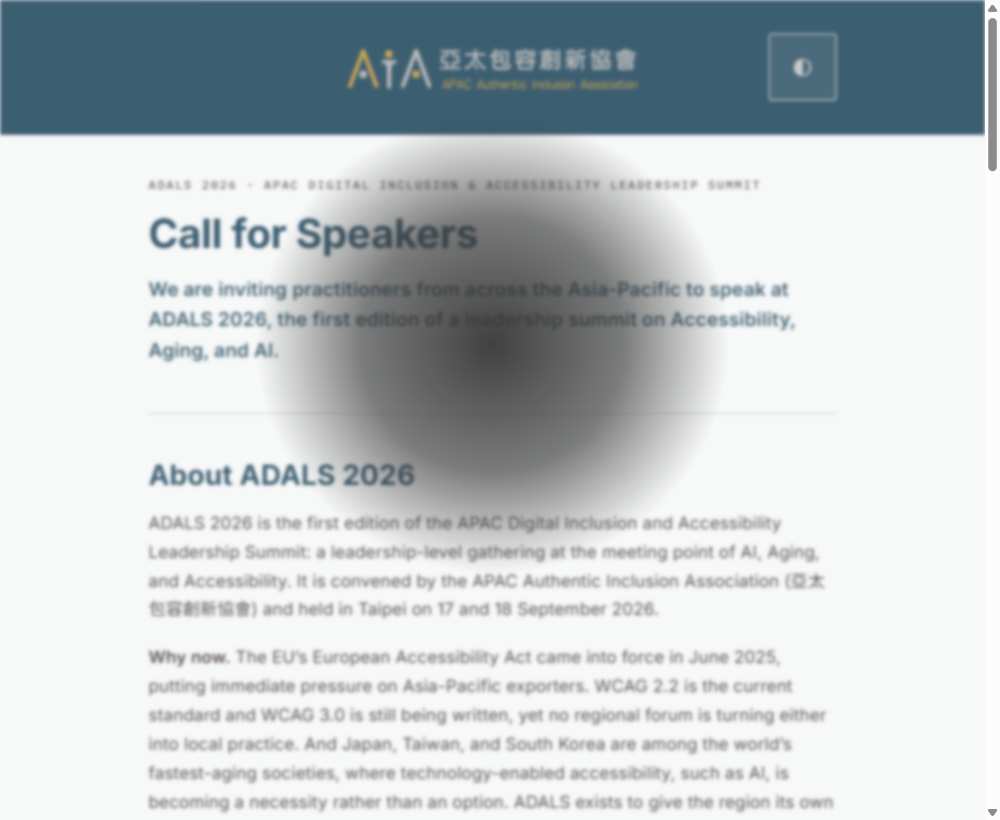
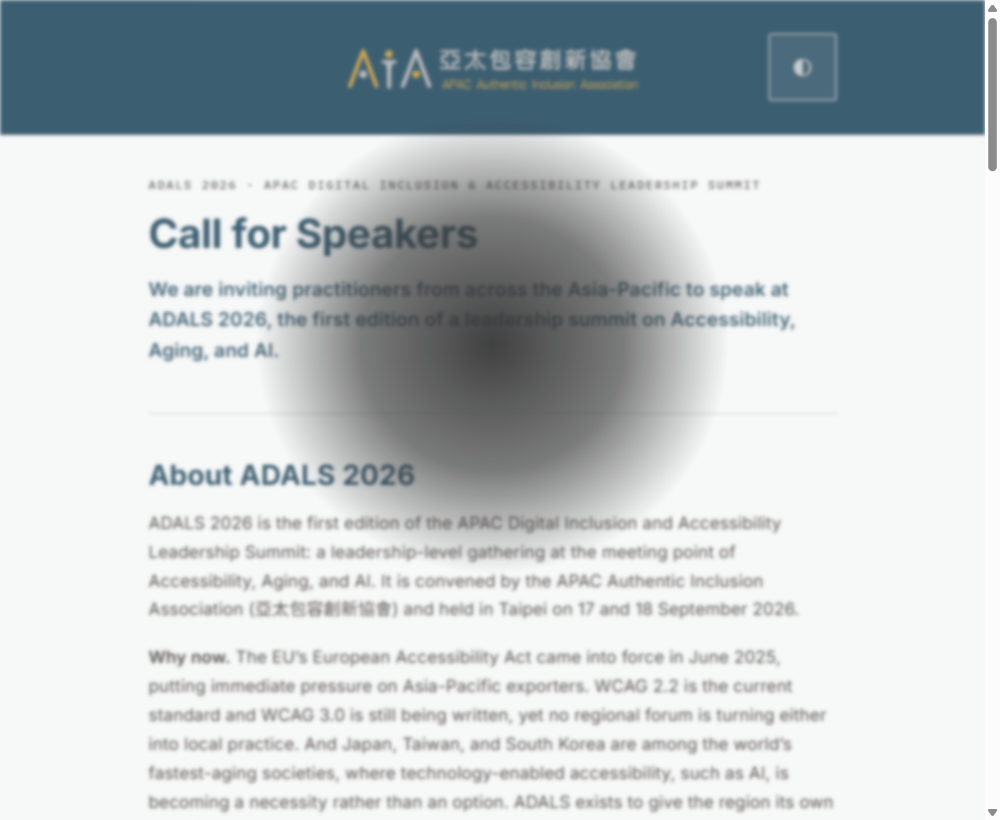
content + docs: reorder trio to Accessibility/Aging/AI; vision-sim light+dark gallery
- Landing: order the AI/Aging/Accessibility trio consistently as
  'Accessibility, Aging, and AI' across the page (meta, About, themes intro)
- vision-sim: recapture all conditions in both light and dark (12 images,
  -light/-dark), rebuild the gallery (light|dark side by side, narrower column
  so images are not overwhelming, click for full size), refresh README

Changed region(s): [[0.155, 0.6707, 0.837, 0.7622]]

diff --git a/accessibility/vision-sim/index.html b/accessibility/vision-sim/index.html
@@ -7,7 +7,7 @@
 <style>
   body {
     font-family: 'Inter', system-ui, 'Noto Sans TC', sans-serif;
-    max-width: 60rem; margin: 0 auto; padding: 2rem 1.25rem;
+    max-width: 56rem; margin: 0 auto; padding: 2rem clamp(1.25rem, 4vw, 2rem);
     line-height: 1.6; color: #231815; background: #F7F8F8;
   }
   h1 { color: #003B5C; margin-bottom: 0.25rem; }
@@ -17,49 +17,83 @@
     background: #ECEFF3; border-left: 4px solid #003B5C;
     padding: 0.9rem 1.2rem; border-radius: 0 4px 4px 0; margin-bottom: 2rem;
   }
-  figure { margin: 0 0 2.5rem; }
-  figcaption { font-weight: 600; color: #003B5C; margin-bottom: 0.5rem; }
+  .cond { margin: 0 0 2.5rem; }
+  .cond h2 {
+    color: #003B5C; font-size: 1.2rem; margin: 0 0 0.75rem;
+    border-bottom: 1px solid #B7C0CB; padding-bottom: 0.4rem;
+  }
+  .pair { display: grid; grid-template-columns: 1fr 1fr; gap: 1.25rem; }
+  figure { margin: 0; }
+  figure a { display: block; }
   img {
     width: 100%; height: auto; display: block;
     border: 1px solid #B7C0CB; border-radius: 6px;
   }
+  figure a:focus-visible img { outline: 3px solid #003B5C; outline-offset: 2px; }
+  figcaption {
+    font-size: 0.85rem; color: #5D5853; margin-top: 0.4rem; text-align: center;
+  }
+  @media (max-width: 34rem) { .pair { grid-template-columns: 1fr; } }
 </style>
 </head>
 <body>
   <h1>Vision simulation</h1>
   <p>The <a href="https://speakers.apac-aia.org">ADALS 2026 Call for Speakers</a>
-     page under simulated vision conditions, captured with CSS / SVG filters over
-     the live page.</p>
+     page under simulated vision conditions, in light and dark mode, captured with
+     CSS / SVG filters over the live page. Click any image for full size.</p>
 
   <div class="note">The page conveys meaning by <strong>lightness contrast</strong>
     (Navy vs Off-White, near-black text), not by hue &mdash; so every
-    colour-deficiency view below loses no information (see achromatopsia, fully
-    legible with zero colour). The AMD central scotoma is a visual-field limit,
-    not a design defect.</div>
+    colour-deficiency view loses no information (see achromatopsia, fully legible
+    with zero colour). The AMD central scotoma is a visual-field limit, not a
+    design defect.</div>
 
-  <figure>
-    <figcaption>1. AMD &mdash; light mode (blur + reduced contrast + central scotoma)</figcaption>
-    <img src="amd-light.png" alt="Call for Speakers page, light mode, blurred with reduced contrast and a dark central blind spot over the middle; the large heading and lead text remain readable.">
-  </figure>
-  <figure>
-    <figcaption>2. AMD &mdash; dark mode</figcaption>
-    <img src="amd-dark.png" alt="Call for Speakers page, dark navy mode, blurred with reduced contrast and a central blind spot; white-on-navy body text stays legible.">
-  </figure>
-  <figure>
-    <figcaption>3. Deuteranopia (green-weak)</figcaption>
-    <img src="deuteranopia.png" alt="Call for Speakers page under green-weak colour vision deficiency; slight hue shift, fully legible.">
-  </figure>
-  <figure>
-    <figcaption>4. Protanopia (red-weak)</figcaption>
-    <img src="protanopia.png" alt="Call for Speakers page under red-weak colour vision deficiency; slight hue shift, fully legible.">
-  </figure>
-  <figure>
-    <figcaption>5. Tritanopia (blue-yellow)</figcaption>
-    <img src="tritanopia.png" alt="Call for Speakers page under blue-yellow colour vision deficiency; navy and gold shift but contrast is preserved, fully legible.">
-  </figure>
-  <figure>
-    <figcaption>6. Achromatopsia (total colour blindness)</figcaption>
-    <img src="achromatopsia.png" alt="Call for Speakers page in greyscale with no colour at all; headings, body text and structure remain fully readable.">
-  </figure>
+  <section class="cond">
+    <h2>Normal (no filter)</h2>
+    <div class="pair">
+      <figure><a href="normal-light.png"><img src="normal-light.png" alt="Call for Speakers page, normal vision, light mode."></a><figcaption>Light mode</figcaption></figure>
+      <figure><a href="normal-dark.png"><img src="normal-dark.png" alt="Call for Speakers page, normal vision, dark mode."></a><figcaption>Dark mode</figcaption></figure>
+    </div>
+  </section>
+
+  <section class="cond">
+    <h2>AMD &mdash; macular degeneration (blur + reduced contrast + central scotoma)</h2>
+    <div class="pair">
+      <figure><a href="amd-light.png"><img src="amd-light.png" alt="Page under simulated macular degeneration, light mode: blurred, reduced contrast, with a dark central blind spot."></a><figcaption>Light mode</figcaption></figure>
+      <figure><a href="amd-dark.png"><img src="amd-dark.png" alt="Page under simulated macular degeneration, dark mode."></a><figcaption>Dark mode</figcaption></figure>
+    </div>
+  </section>
+
+  <section class="cond">
+    <h2>Deuteranopia (green-weak)</h2>
+    <div class="pair">
+      <figure><a href="deuteranopia-light.png"><img src="deuteranopia-light.png" alt="Page under green-weak colour vision deficiency, light mode; fully legible."></a><figcaption>Light mode</figcaption></figure>
+      <figure><a href="deuteranopia-dark.png"><img src="deuteranopia-dark.png" alt="Page under green-weak colour vision deficiency, dark mode; fully legible."></a><figcaption>Dark mode</figcaption></figure>
+    </div>
+  </section>
+
+  <section class="cond">
+    <h2>Protanopia (red-weak)</h2>
+    <div class="pair">
+      <figure><a href="protanopia-light.png"><img src="protanopia-light.png" alt="Page under red-weak colour vision deficiency, light mode; fully legible."></a><figcaption>Light mode</figcaption></figure>
+      <figure><a href="protanopia-dark.png"><img src="protanopia-dark.png" alt="Page under red-weak colour vision deficiency, dark mode; fully legible."></a><figcaption>Dark mode</figcaption></figure>
+    </div>
+  </section>
+
+  <section class="cond">
+    <h2>Tritanopia (blue-yellow)</h2>
+    <div class="pair">
+      <figure><a href="tritanopia-light.png"><img src="tritanopia-light.png" alt="Page under blue-yellow colour vision deficiency, light mode; contrast preserved, fully legible."></a><figcaption>Light mode</figcaption></figure>
+      <figure><a href="tritanopia-dark.png"><img src="tritanopia-dark.png" alt="Page under blue-yellow colour vision deficiency, dark mode; contrast preserved, fully legible."></a><figcaption>Dark mode</figcaption></figure>
+    </div>
+  </section>
+
+  <section class="cond">
+    <h2>Achromatopsia (total colour blindness)</h2>
+    <div class="pair">
+      <figure><a href="achromatopsia-light.png"><img src="achromatopsia-light.png" alt="Page in greyscale with no colour, light mode; headings, text and structure fully readable."></a><figcaption>Light mode</figcaption></figure>
+      <figure><a href="achromatopsia-dark.png"><img src="achromatopsia-dark.png" alt="Page in greyscale with no colour, dark mode; fully readable."></a><figcaption>Dark mode</figcaption></figure>
+    </div>
+  </section>
 </body>
 </html>

diff --git a/index.html b/index.html
@@ -3,7 +3,7 @@
 <head>
 <meta charset="UTF-8">
 <meta name="viewport" content="width=device-width, initial-scale=1">
-<meta name="description" content="Call for Speakers — ADALS 2026, the APAC Digital Inclusion and Accessibility Leadership Summit on AI, Aging, and Accessibility. Taipei, 17 and 18 September 2026. Sessions in English.">
+<meta name="description" content="Call for Speakers — ADALS 2026, the APAC Digital Inclusion and Accessibility Leadership Summit on Accessibility, Aging, and AI. Taipei, 17 and 18 September 2026. Sessions in English.">
 <title>Call for Speakers — ADALS 2026</title>
 <link rel="icon" href="data:,">
 <link rel="preconnect" href="https://fonts.googleapis.com">
@@ -646,7 +646,7 @@
 
     <section aria-labelledby="h-about-summit">
       <h2 id="h-about-summit">About ADALS 2026</h2>
-      <p>ADALS 2026 is the first edition of the APAC Digital Inclusion and Accessibility Leadership Summit: a leadership-level gathering at the meeting point of AI, Aging, and Accessibility. It is convened by the APAC Authentic Inclusion Association (<span lang="zh-Hant">亞太包容創新協會</span>) and held in Taipei on 17 and 18 September 2026.</p>
+      <p>ADALS 2026 is the first edition of the APAC Digital Inclusion and Accessibility Leadership Summit: a leadership-level gathering at the meeting point of Accessibility, Aging, and AI. It is convened by the APAC Authentic Inclusion Association (<span lang="zh-Hant">亞太包容創新協會</span>) and held in Taipei on 17 and 18 September 2026.</p>
       <p><strong>Why now.</strong> The EU&rsquo;s European Accessibility Act came into force in June 2025, putting immediate pressure on Asia-Pacific exporters. WCAG 2.2 is the current standard and WCAG 3.0 is still being written, yet no regional forum is turning either into local practice. And Japan, Taiwan, and South Korea are among the world&rsquo;s fastest-aging societies, where technology-enabled accessibility, such as AI, is becoming a necessity rather than an option. ADALS exists to give the region its own table for these questions.</p>      <p><strong>Who it is for.</strong> ADALS is being designed for senior leaders from across the Asia-Pacific: technology and product executives, policymakers, hardware manufacturers, accessibility professionals, and people from universities and the non-profit sector. It is a working summit aimed at practice and decisions, not a compliance workshop.</p>
       <p><strong>What we are looking for.</strong> Keynote sessions anchor each day. The open program of talks, panels, and workshops is where we want voices from across the region: practitioners with a real case to share. If that is you, we would like to hear from you.</p>    </section>
 
@@ -673,7 +673,7 @@
         <li><strong>Thank you for your expression of interest.</strong> We read every proposal and will be in touch to talk through fit and format before anything is confirmed.</li>
       </ul>
 
-      <p>The program is built around five themes, and every proposal should sit somewhere in AI, Aging, and Accessibility, or where they meet. Your session should connect to one to three of them:</p>
+      <p>The program is built around five themes, and every proposal should sit somewhere in Accessibility, Aging, and AI, or where they meet. Your session should connect to one to three of them:</p>
       <ol class="themes" aria-label="The five themes">
         <li><strong>Trust &amp; Transparency</strong> &mdash; AI decisions, explainability, accountability, and the right to challenge automated systems.</li>
         <li><strong>Who Can Use Daily Services?</strong> &mdash; access to everyday services (banking, health, transport, public services, ID), and the barriers that shut people out.</li>

diff --git a/accessibility/vision-sim/README.md b/accessibility/vision-sim/README.md
@@ -1,29 +1,31 @@
 # Vision simulation — speakers.apac-aia.org
 
-Screenshots of the Call for Speakers landing page as it appears under simulated
-vision conditions, captured by applying CSS / SVG colour-matrix filters over the
-live page (the same technique browser dev-tools use).
+Screenshots of the Call for Speakers landing page under simulated vision
+conditions, in **light and dark mode**, captured by applying CSS / SVG
+colour-matrix filters over the live page. Browse them as a gallery in
+**`index.html`** (open the folder URL); click any image for full size.
 
-| File | Condition |
+12 images = 6 conditions × 2 modes (`-light` / `-dark`):
+
+| Condition | Files |
 |---|---|
-| `amd-light.png` | Age-related macular degeneration (AMD) — blur + reduced contrast + an illustrative central scotoma, light mode |
-| `amd-dark.png` | AMD, dark mode |
-| `deuteranopia.png` | Green-weak colour vision deficiency |
-| `protanopia.png` | Red-weak |
-| `tritanopia.png` | Blue-yellow |
-| `achromatopsia.png` | Total colour blindness (greyscale) |
+| Normal (no filter) | `normal-light.png` / `normal-dark.png` |
+| AMD — macular degeneration (blur + reduced contrast + central scotoma) | `amd-light.png` / `amd-dark.png` |
+| Deuteranopia (green-weak) | `deuteranopia-*.png` |
+| Protanopia (red-weak) | `protanopia-*.png` |
+| Tritanopia (blue-yellow) | `tritanopia-*.png` |
+| Achromatopsia (total colour blindness) | `achromatopsia-*.png` |
 
 ## Takeaway
 
-The page conveys meaning through **lightness contrast** (Navy vs Off-White,
-near-black text) rather than **hue**, so every colour-deficiency view loses no
-information — see `achromatopsia.png`, fully legible with zero colour. Large,
-high-contrast headings and the Gold CTA stay readable under the AMD blur; the
-central scotoma is a visual-field limit, not a design defect — large, clear
-landmarks help users navigate around it.
+The page conveys meaning by **lightness contrast** (Navy vs Off-White, near-black
+text), not by hue — so every colour-deficiency view loses no information (see
+`achromatopsia-*`, fully legible with zero colour). Large, high-contrast headings
+and the Gold CTA stay readable under the AMD blur; the central scotoma is a
+visual-field limit, not a design defect.
 
 ## Notes
 
-These are filter approximations. For a true gaze-tracked AMD scotoma, use the
-**VisionSim** app (Braille Institute): open the page on a screen and point a phone
-camera at it. Generated at a 1000px-wide viewport; not part of the published page.
+Filter approximations. For a true gaze-tracked AMD scotoma, use the **VisionSim**
+app (open the page on a screen, point a phone camera at it). Captured at a
+1000px-wide viewport; not part of the published page.